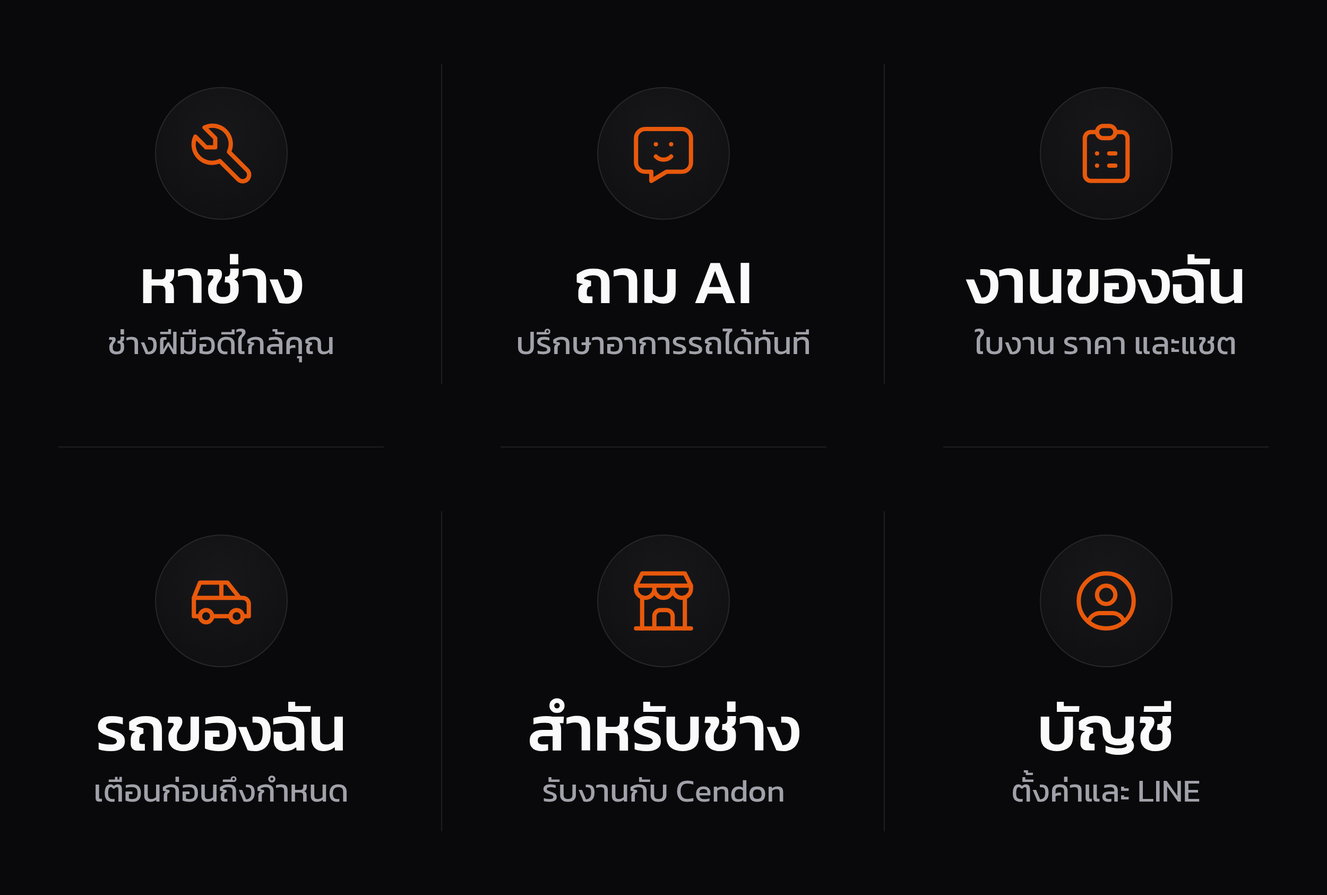
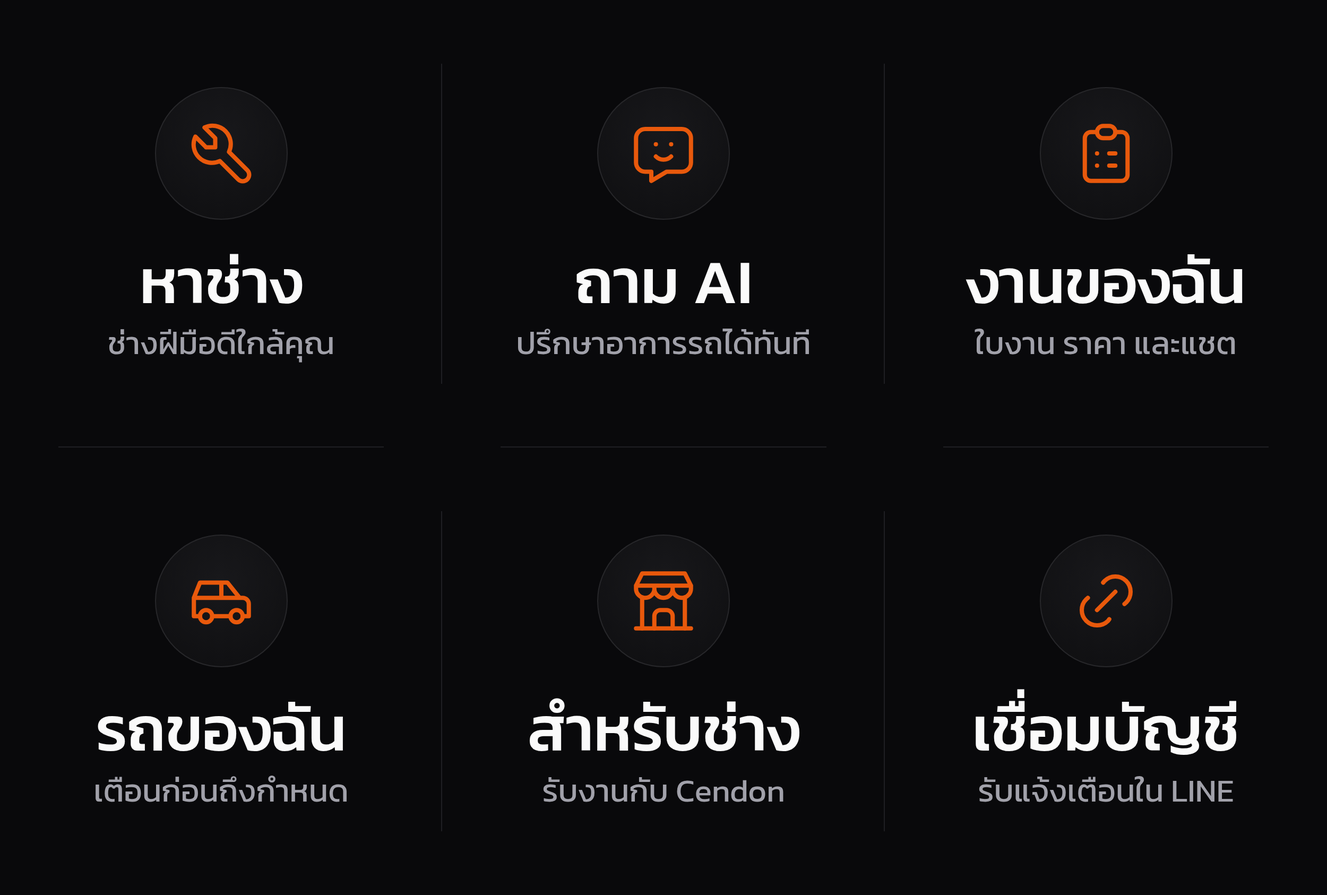
เชื่อม LINE แบบเริ่มจากแชต LINE: กดเมนู "เชื่อมบัญชี" → บอทส่งลิงก์ → ล็อกอินแล้วกดเชื่อมต่อ → แจ้งสำเร็จใน LINE
- บอทรับ "เชื่อมต่อบัญชี" (จากเมนูหรือพิมพ์เอง) → สร้าง token สุ่ม 256 บิต ผูกกับ LINE user id
  เก็บแค่แฮช ใช้ได้ครั้งเดียว 15 นาที ขอใหม่ = ลิงก์เก่าใช้ไม่ได้
- ตอบเป็นการ์ดพร้อมปุ่มเปิดหน้า /line?t=… ในเบราว์เซอร์ของเครื่อง · LINE ที่เชื่อมอยู่แล้วได้ปุ่ม "เปลี่ยนบัญชี"
- GET/POST /api/line/connect (ต้องล็อกอิน): ดูชื่อ/รูป LINE ที่จะเชื่อม · กดเชื่อมต่อ = ใช้ token แบบอะตอม
  ผูกบัญชี แล้ว push "เชื่อมบัญชีสำเร็จ" · ยังไม่เป็นเพื่อน = พักไว้จนเพิ่มเพื่อน
- หน้าเชื่อมต่อในแอป: โชว์ LINE ↔ บัญชี Cendon ก่อนกด (กันโดนหลอกให้เชื่อมกับ LINE คนอื่น) · หมดอายุ/ใช้แล้วบอกวิธีขอใหม่
- ปุ่ม "เชื่อม LINE" ในแอปเปิดแชต LINE พร้อมพิมพ์ "เชื่อมต่อบัญชี" ให้ แล้วรอผล · รหัส 6 ตัวแบบเดิมยังใช้ได้
- เมนู LINE ช่องขวาล่าง "บัญชี" → "เชื่อมบัญชี" (ส่งข้อความ) + รูปเมนูใหม่ · schema 22

Claude-Session: https://claude.ai/code/session_01RQqt5tW7HXgtELbX8NsBFF

Changed region(s): [[0.7176, 0.7711, 0.936, 0.8944], [0.8112, 0.6168, 0.8736, 0.7094]]

diff --git a/index.html b/index.html
@@ -5,7 +5,7 @@
 <link rel="stylesheet" href="/account.css">
 <script src="/cendon-tour.js" defer></script>
 <script src="/account-actions.js" defer></script>
-<script src="/account.js?v=2026-10-14-r5" defer></script>
+<script src="/account.js?v=2026-10-15-r6" defer></script>
 <meta charset="UTF-8"/>
 <!-- ที่อยู่แบบลึก (/tech/<ร้าน>/reviews) — ไฟล์ประกอบทุกตัวอ้างจากรากเว็บเสมอ -->
 <base href="/">
@@ -1754,6 +1754,17 @@ html[data-theme="dark"] .so-vi{box-shadow:inset 0 0 0 1px rgba(255,255,255,.14)}
 .fixl b{display:flex;gap:6px;align-items:center;font-size:14.5px}.fixl b .ti{color:#b91c1c}
 .fixl ul{margin:8px 0 0;padding-left:20px;display:grid;gap:6px;font-size:14px;line-height:1.6}
 .idp{margin:0 0 12px;padding:14px 16px;border-radius:16px;border:1px solid var(--line);background:var(--surface)}
+.lc-pair{display:flex;align-items:center;justify-content:center;gap:14px;margin:8px 0 18px}
+.lc-side{flex:1 1 0;min-width:0;display:grid;justify-items:center;gap:3px;text-align:center}
+.lc-side small{font-size:12px;color:var(--muted)}.lc-side b{font-size:15px;max-width:100%;overflow:hidden;text-overflow:ellipsis;white-space:nowrap}
+.lc-side em{font-style:normal;font-size:12px;color:var(--muted);max-width:100%;overflow:hidden;text-overflow:ellipsis;white-space:nowrap}
+.lc-av{width:68px;height:68px;border-radius:50%;object-fit:cover;display:grid;place-items:center;font-size:26px;font-weight:600;margin-bottom:6px;border:1px solid var(--line)}
+.lc-ln{border:0;border-radius:18px;object-fit:contain}.lc-cd{background:var(--ink);color:var(--bg)}
+.lc-link{flex:none;width:36px;height:36px;border-radius:50%;display:grid;place-items:center;background:var(--surface-2);color:var(--muted);font-size:18px}
+.lc-h{font-family:var(--kd);font-size:20px;font-weight:600;text-align:center;margin:0 0 12px}
+.lc-ul{list-style:none;margin:0 0 14px;padding:0;display:grid;gap:10px}
+.lc-ul li{display:flex;gap:10px;align-items:flex-start;font-size:14.5px;line-height:1.55}.lc-ul .ti{color:var(--accent);font-size:18px;flex:none;margin-top:1px}
+.lc-warn{color:var(--muted)}.lc-tip{text-align:center;color:var(--muted);font-size:14px;line-height:1.6;margin:4px 0 14px}
 .kyc{margin:0 0 16px;padding:14px 16px;border-radius:16px;border:1px solid var(--line);background:var(--surface);display:grid;gap:8px}
 .kyc b{display:flex;gap:8px;align-items:center;font-size:15px}.kyc small{color:var(--muted);font-size:13.5px;line-height:1.6}
 .kyc.next{border-color:color-mix(in srgb,var(--accent) 45%,var(--line))}.kyc.next b .ti{color:var(--accent)}
@@ -3184,6 +3195,46 @@ const LP_AREA=[["engine","ti-engine","ห้องเครื่อง","Engine
   ["exhaust","ti-wind","ท่อไอเสีย","Exhaust"],["cabin","ti-armchair","ในห้องโดยสาร / หน้าปัด","Cabin / dashboard"],["ac","ti-air-conditioning","แอร์ / พัดลม","AC / fan"],["unsure","ti-help","ไม่แน่ใจ","Not sure"]];
 const LP_WHEN=[["cold","ตอนสตาร์ท / เครื่องเย็น","Cold start"],["idle","เดินเบา (จอดติดเครื่อง)","Idling"],["rev","ตอนเร่งเครื่อง","Revving"],["speed","ตอนวิ่ง ดังขึ้นตามความเร็ว","Rises with road speed"],
   ["brake","ตอนเบรก","Braking"],["turn","ตอนเลี้ยว / หมุนพวงมาลัย","Turning"],["bump","ตอนผ่านหลุม / ลูกระนาด","Over bumps"],["acon","ตอนเปิดแอร์","With AC on"],["always","ตลอดเวลา","All the time"]];
+/* ═══ เชื่อม LINE (เริ่มจากในแชต LINE) ═══
+   บอทส่งลิงก์ /line?t=<token> → หน้านี้โชว์ว่ากำลังเชื่อม "LINE ชื่ออะไร" กับ "บัญชี Cendon ไหน" → กดเชื่อมต่อ
+   → หลังบ้านเทียบ token กับ LINE user id ที่บอทจดไว้ แล้วผูกบัญชี + ส่งข้อความยืนยันเข้า LINE
+   โชว์ชื่อ/รูป LINE ก่อนกด กันคนส่งลิงก์ของตัวเองมาหลอกให้เราเชื่อมบัญชีเรากับ LINE ของเขา */
+const lineAdd=oa=>"https://line.me/R/ti/p/"+encodeURIComponent(oa),lineChat=oa=>"https://line.me/R/oaMessage/"+encodeURIComponent(oa)+"/";
+const LNI='<img src="./img/line-logo.svg" width="20" height="20" alt="" style="vertical-align:-4px;margin-right:6px">';
+function lineConnect(t){
+  const url="/line?t="+encodeURIComponent(t);
+  sheet({title:"เชื่อม LINE",url,body:'<div class="skel"></div><div class="skel"></div>'});
+  const again=oa=>`<p class="lc-tip">กลับไปที่แชต LINE ของ Cendon แล้วกดเมนู <b>เชื่อมบัญชี</b> (หรือพิมพ์ "เชื่อมต่อบัญชี") เพื่อรับลิงก์ใหม่</p>
+    ${oa?`<a class="btn s w" href="${esc(lineChat(oa))}" target="_blank" rel="noopener">${LNI}เปิด LINE ของ Cendon</a>`:""}`;
+  const fail=(icon,h,p,oa)=>sheet({title:"เชื่อม LINE",url,body:`<div class="state"><div class="big" style="background:var(--surface-2);color:var(--muted)"><i class="ti ${icon}"></i></div><h2>${h}</h2><p>${p}</p></div>${again(oa)}`,
+    foot:'<button class="btn s w" id="lcHome">ไปหน้าแรก</button>',mount(){$("lcHome").onclick=()=>closeSheet()}});
+  const done=r=>sheet({title:"เชื่อม LINE",url:"/line",body:r.paused
+      ?`<div class="state"><div class="big" style="background:rgba(6,199,85,.12);color:#06C755"><i class="ti ti-user-plus"></i></div><h2>อีกขั้นเดียว</h2><p>เชื่อมบัญชีแล้ว แต่ LINE ส่งแจ้งเตือนได้เฉพาะคนที่เพิ่ม Cendon เป็นเพื่อน — เพิ่มแล้วการแจ้งเตือนจะเปิดเองทันที</p></div>
+        ${r.oa?`<a class="btn p w" href="${esc(lineAdd(r.oa))}" target="_blank" rel="noopener">${LNI}เพิ่มเพื่อน ${esc(r.oa)}</a>`:""}`
+      :`<div class="state"><div class="big" style="background:rgba(6,199,85,.12);color:#06C755"><i class="ti ti-circle-check"></i></div><h2>เชื่อม LINE สำเร็จ</h2><p>เราส่งข้อความยืนยันไปที่ LINE${r.name?" "+esc(r.name):""} แล้ว · จากนี้งานช่าง ราคา ข้อความ และเตือนดูแลรถจะแจ้งใน LINE</p></div>
+        ${r.oa?`<a class="btn p w" href="${esc(lineChat(r.oa))}" target="_blank" rel="noopener">${LNI}กลับไปที่ LINE</a>`:""}`,
+    foot:'<button class="btn s w" id="lcHome">ไปหน้าแรก</button>',mount(){$("lcHome").onclick=()=>closeSheet()}});
+  if(!/^[A-Za-z0-9_-]{30,64}$/.test(t))return fail("ti-link-off","ลิงก์ไม่ครบ","ลิงก์เชื่อมบัญชีต้องเปิดจากปุ่มที่บอท Cendon ส่งให้ใน LINE");
+  api("/api/line/connect?t="+encodeURIComponent(t)).then(d=>{
+    if(d.state==="expired")return fail("ti-clock-x","ลิงก์หมดอายุแล้ว","ลิงก์เชื่อมบัญชีใช้ได้ 15 นาที",d.oa);
+    if(d.state==="used")return fail("ti-link-off","ลิงก์นี้ถูกใช้ไปแล้ว","ลิงก์เชื่อมบัญชีใช้ได้ครั้งเดียว",d.oa);
+    if(d.state!=="ok")return fail("ti-link-off","ไม่พบลิงก์นี้","อาจมีการขอลิงก์ใหม่ในแชตแล้ว — ใช้ลิงก์ล่าสุดที่บอทส่งให้",d.oa);
+    const me=(ME&&ME.name)||(U&&(U.displayName||U.email))||"บัญชีของคุณ";
+    sheet({title:"เชื่อม LINE",url,body:`
+      <div class="lc-pair">
+        <div class="lc-side">${d.picture?`<img class="lc-av" src="${esc(d.picture)}" alt="" referrerpolicy="no-referrer"/>`:`<img class="lc-av lc-ln" src="./img/line-logo.svg" alt=""/>`}<small>LINE</small><b>${esc(d.name||"บัญชี LINE ของคุณ")}</b></div>
+        <span class="lc-link" aria-hidden="true"><i class="ti ti-arrows-exchange"></i></span>
+        <div class="lc-side"><span class="lc-av lc-cd">${initial(me)}</span><small>Cendon</small><b>${esc(me)}</b>${U&&U.email&&U.email!==me?`<em>${esc(U.email)}</em>`:""}</div>
+      </div>
+      <h2 class="lc-h">เชื่อมสองบัญชีนี้เข้าด้วยกัน?</h2>
+      <ul class="lc-ul"><li><i class="ti ti-bell-ringing"></i>งานช่าง ราคา และข้อความในใบงาน แจ้งเข้า LINE ทันที</li><li><i class="ti ti-car"></i>เตือนดูแลรถตามระยะที่ขับจริง</li><li><i class="ti ti-message-chatbot"></i>คุยกับ AI ใน LINE ได้ โดยรู้จักรถในการาจของคุณ</li></ul>
+      ${d.same?'<p class="note"><i class="ti ti-circle-check"></i>บัญชีนี้เชื่อมกับ LINE นี้อยู่แล้ว กดเชื่อมต่อซ้ำได้ ไม่มีอะไรเปลี่ยน</p>':d.linked?'<p class="note"><i class="ti ti-info-circle"></i>บัญชีนี้รับแจ้งเตือนที่ LINE อื่นอยู่ — เชื่อมแล้วจะย้ายมาที่ LINE นี้แทน</p>':""}
+      <p class="note lc-warn"><i class="ti ti-shield-lock"></i>ถ้า LINE ด้านบนไม่ใช่ของคุณ อย่ากดเชื่อมต่อ — ปิดหน้านี้ได้เลย</p>`,
+      foot:'<button class="btn s" id="lcNo">ยกเลิก</button><button class="btn p" id="lcGo">เชื่อมต่อ</button>',
+      mount(){$("lcNo").onclick=()=>closeSheet();
+        $("lcGo").onclick=e=>busy(e.currentTarget,async()=>{const r=await api("/api/line/connect",{body:{t}});done(r)})}});
+  }).catch(e=>fail("ti-cloud-off","เปิดลิงก์ไม่สำเร็จ",esc(e.message)));
+}
 function listenPage(){
   let [cars,car]=myCars(),area="",when=[],clip=null,rec=null,busyClip=false;
   const fmt=s=>{s=Math.round(s);return Math.floor(s/60)+":"+String(s%60).padStart(2,"0")};
@@ -3750,6 +3801,8 @@ Nav.route({path:"join",open:async()=>{if(await needU())return openJoin()}});
 Nav.route({path:"quote",name:"qcheck",open:()=>quotePage()});
 Nav.route({path:"listen",name:"listen",open:()=>listenPage()});
 Nav.route({path:"photo",name:"photo",open:()=>photoPage()});
+/* หน้าเชื่อมต่อ LINE — มาจากลิงก์ที่บอท Cendon ส่งให้ (/line?t=…) · ยังไม่ล็อกอิน → ไปล็อกอินแล้วกลับมาที่นี่ */
+Nav.route({path:"line",name:"lineConnect",open:async(p,q)=>{if(await needU())lineConnect(q.get("t")||"")}});
 Nav.route({path:"quotes",open:async()=>{await READY.techs;if(await needU())openMulti("","")}});
 Nav.route({path:"compare/:g",open:async p=>{if(await needU())return openGroup(p.g)}});
 Nav.route({path:"urgent",open:async()=>{await READY.techs;if(await needU())return urgentCall()}});

diff --git a/cendon-line.js b/cendon-line.js
@@ -5,10 +5,10 @@
                    <div data-line-connect="nudge"></div>  → แถบเล็ก โผล่เฉพาะคนที่ยังไม่เชื่อม (ในใบงาน)
    ตัวนี้หาเองทุกครั้งที่มีกล่องแบบนี้โผล่ในหน้า ไม่ต้องเรียกอะไร
 
-   ขั้นตอน: ขอรหัส 6 ตัว → เปิดห้องแชต LINE ของ Cendon พร้อมพิมพ์รหัสไว้ให้ → ผู้ใช้กดส่ง
-   → บอทผูกบัญชี → หน้านี้ถามสถานะทุก 3 วินาทีจนเห็นว่าเชื่อมแล้ว
-   ข้อความที่เตรียมให้ส่งมีแค่ภาษาไทยกับรหัส — บอทหารหัสจาก "คำอังกฤษ 6 ตัว"
-   ถ้ามีคำอย่าง CENDON ปนมา บอทจะหยิบผิดตัว
+   ขั้นตอน (เริ่มจากในแชต LINE): ปุ่มเปิดห้องแชต LINE ของ Cendon พร้อมพิมพ์ "เชื่อมต่อบัญชี" ไว้ให้ → ผู้ใช้กดส่ง
+   → บอทส่งลิงก์หน้าเชื่อมต่อ (/line?t=…) → ผู้ใช้เปิด ล็อกอิน แล้วกด "เชื่อมต่อ" (หน้านั้นอยู่ใน index.html)
+   → หลังบ้านผูกบัญชีแล้ว push แจ้งใน LINE · หน้านี้ถามสถานะทุก 3 วินาทีจนเห็นว่าเชื่อมแล้ว
+   (ใน LINE จะกดเมนู "เชื่อมบัญชี" เองก็ได้ ผลเหมือนกัน)
    ══════════════════════════════════════════════════════════════════ */
 (function(){
 "use strict";
@@ -30,7 +30,9 @@ async function call(method,path){
 }
 
 /* สถานะร่วมของทั้งหน้า: ถามเซิร์ฟเวอร์ครั้งเดียว ทุกกล่องใช้ร่วมกัน */
-let st=null,stAt=0,code=null,poll=0;
+/* pending = เวลาที่เลิกรอ หลังผู้ใช้กดเปิด LINE (รอทำต่อใน LINE ไม่เกิน 20 นาที) */
+let st=null,stAt=0,pending=0,poll=0;
+const CONNECT="เชื่อมต่อบัญชี";
 const boxes=new Set();
 async function status(force){
   if(!force&&st&&Date.now()-stAt<60000)return st;
@@ -72,7 +74,7 @@ function draw(el){
   /* เชื่อมแล้วแต่ยังไม่ได้เพิ่มเพื่อน (หรือบล็อก) Cendon ใน LINE — LINE ส่งแจ้งเตือนให้ไม่ได้จนกว่าจะเพิ่มเพื่อน
      เพิ่มแล้วหลังบ้านเปิดให้เอง หน้านี้ถามสถานะใหม่ตอนผู้ใช้สลับกลับมา */
   if(st.paused){
-    const oa=st.oa||(code&&code.oa)||"";
+    const oa=st.oa||"";
     el.innerHTML=nudge
       ?`<div class="cl nudge">${ICON}<div class="cl-tx"><b>${T("เพิ่มเพื่อน Cendon เพื่อรับแจ้งเตือน","Add Cendon on LINE to get updates")}</b></div>
         ${oa?`<a class="cl-btn sm" href="${esc(addUrl(oa))}" target="_blank" rel="noopener">${T("เพิ่มเพื่อน","Add")}</a>`:""}</div>`
@@ -83,50 +85,44 @@ function draw(el){
         <button type="button" class="cl-lnk" data-cl="off" style="align-self:flex-start;margin:2px 0 0;padding:0">${T("ยกเลิกการเชื่อม","Disconnect")}</button></div></div>`;
     return;
   }
-  if(code){
-    const oa=code.oa||st.oa||"",msg="รหัสเชื่อมบัญชี "+code.code;
+  const oa=st.oa,go=(cls,label)=>`<a class="${cls}" data-cl="go" href="${esc(oaUrl(oa,CONNECT))}" target="_blank" rel="noopener">${label}</a>`;
+  if(pending>Date.now()&&!nudge){
     el.innerHTML=`<div class="cl wait">${ICON}<div class="cl-tx">
-      <b>${T("ส่งรหัสนี้ใน LINE ของ Cendon","Send this code to Cendon on LINE")}</b>
-      <div class="cl-code">${esc(code.code)}</div>
-      ${oa?`<a class="cl-btn" href="${esc(oaUrl(oa,msg))}" target="_blank" rel="noopener">${T("เปิด LINE แล้วกดส่ง","Open LINE and tap send")}</a>
-      <small>${T("ยังไม่ได้เพิ่มเพื่อน?","Not friends yet?")} <a href="${esc(addUrl(oa))}" target="_blank" rel="noopener">${T("เพิ่มเพื่อน","Add")} ${esc(oa)}</a> ${T("ก่อน แล้วพิมพ์รหัสนี้","first, then type this code")}</small>`
-        :`<small>${T("เพิ่มเพื่อน LINE ของ Cendon แล้วพิมพ์รหัสนี้","Add Cendon on LINE and type this code")}</small>`}
-      <small class="cl-wt"><span class="cl-dot"></span>${T("รอการยืนยัน · รหัสใช้ได้ 20 นาที","Waiting for LINE · code valid for 20 minutes")}</small></div></div>`;
+      <b>${T("ทำต่อใน LINE","Continue in LINE")}</b>
+      <ol class="cl-steps"><li>${T(`กดส่งข้อความ "${CONNECT}"`,`Send "${CONNECT}"`)}</li><li>${T('กดปุ่ม "เชื่อมต่อบัญชี" ที่บอทตอบกลับ','Tap the "เชื่อมต่อบัญชี" button the bot replies with')}</li><li>${T('ล็อกอิน (ถ้าถาม) แล้วกด "เชื่อมต่อ"','Sign in if asked, then tap "เชื่อมต่อ"')}</li></ol>
+      ${go("cl-btn",T("เปิด LINE อีกครั้ง","Open LINE again"))}
+      <small>${T("ยังไม่ได้เพิ่มเพื่อน?","Not friends yet?")} <a href="${esc(addUrl(oa))}" target="_blank" rel="noopener">${T("เพิ่มเพื่อน","Add")} ${esc(oa)}</a></small>
+      <small class="cl-wt"><span class="cl-dot"></span>${T("รอการเชื่อมต่อ…","Waiting for LINE…")}</small></div></div>`;
     return;
   }
   el.innerHTML=nudge
     ?`<div class="cl nudge">${ICON}<div class="cl-tx"><b>${T("รับแจ้งเตือนงานนี้ทาง LINE","Get updates on LINE")}</b></div>
-      <button type="button" class="cl-btn sm" data-cl="go">${T("เชื่อม","Connect")}</button></div>`
+      ${go("cl-btn sm",T("เชื่อม","Connect"))}</div>`
     :`<div class="cl">${ICON}<div class="cl-tx"><b>${T("รับแจ้งเตือนทาง LINE","Get notified on LINE")}</b>
       <small>${T("งานใหม่ ราคา ข้อความ และเตือนดูแลรถ ส่งเข้า LINE ทันที ไม่ต้องเปิดแอปค้างไว้","New jobs, quotes, messages and car reminders, straight to LINE")}</small>
-      <button type="button" class="cl-btn" data-cl="go">${T("เชื่อม LINE","Connect LINE")}</button></div></div>`;
+      ${go("cl-btn",T("เชื่อม LINE","Connect LINE"))}</div></div>`;
 }
 
-async function start(el){
-  const b=el.querySelector('[data-cl="go"]');if(b){b.disabled=true;b.textContent="…"}
-  try{code=await call("POST","/api/line/code");if(code.oa!==undefined&&st)st.oa=st.oa||code.oa}
-  catch(e){alert(e.message);paintAll();return}
-  paintAll();watch();
-}
-/* ระหว่างรอผู้ใช้กดส่งใน LINE ถามสถานะเป็นระยะ (หยุดเองเมื่อเชื่อมแล้ว หรือรหัสหมดอายุ) */
+/* กดเชื่อม = ลิงก์เปิดห้องแชต LINE (ปล่อยให้เปิดเอง) แล้วการ์ดเปลี่ยนเป็น "ทำต่อใน LINE" และรอผล */
+function start(){pending=Date.now()+20*60000;setTimeout(()=>{paintAll();watch()},60)}
+/* ระหว่างรอผู้ใช้ทำต่อใน LINE ถามสถานะเป็นระยะ (หยุดเองเมื่อเชื่อมแล้ว หรือเกิน 20 นาที) */
 function watch(){
   clearTimeout(poll);
   const tick=async()=>{
-    if(!code)return;
-    if(Date.now()>(code.expiresAt||0)){code=null;paintAll();return}
-    /* ส่งรหัสแล้วแต่ยังไม่เป็นเพื่อน → เปลี่ยนการ์ดเป็นขั้น "เพิ่มเพื่อน" แล้วรอต่อจนเชื่อมครบ */
-    try{const was=st&&st.paused;await status(true);if(st.linked){code=null;paintAll();return}if(st.paused!==was)paintAll()}catch(e){}
+    if(!pending)return;
+    if(Date.now()>pending){pending=0;paintAll();return}
+    try{const was=st&&st.paused;await status(true);if(st.linked){pending=0;paintAll();return}if(st.paused!==was)paintAll()}catch(e){}
     poll=setTimeout(tick,document.hidden?6000:3000);
   };
   poll=setTimeout(tick,3000);
 }
-/* กลับมาจาก LINE: ถามสถานะใหม่ทันที (เพิ่งกดส่งรหัส หรือเพิ่งเพิ่มเพื่อน) */
-document.addEventListener("visibilitychange",()=>{if(document.hidden)return;if(code)watch();else if(st&&st.paused)status(true).then(paintAll).catch(()=>{})});
+/* กลับมาจาก LINE: ถามสถานะใหม่ทันที */
+document.addEventListener("visibilitychange",()=>{if(document.hidden)return;if(pending)watch();else if(st&&st.paused)status(true).then(paintAll).catch(()=>{})});
 document.addEventListener("click",async e=>{
   const b=e.target.closest&&e.target.closest("[data-cl]");if(!b)return;
   const el=b.closest("[data-line-connect]");if(!el)return;
+  if(b.dataset.cl==="go")return start();
   e.preventDefault();
-  if(b.dataset.cl==="go")return start(el);
   if(b.dataset.cl==="off"){
     if(!confirm(T("เลิกรับแจ้งเตือนทาง LINE?","Stop LINE notifications?")))return;
     try{await call("DELETE","/api/line/link");await status(true)}catch(err){alert(err.message)}
@@ -199,6 +195,8 @@ const css=document.createElement("style");css.textContent=`
 .cl-btn.sm{height:34px;padding:0 16px;margin:0;font-size:13px;flex:none}
 .cl-btn:disabled{opacity:.7}
 .cl-lnk{flex:none;border:0;background:none;color:#fff;opacity:.72;font-weight:500;font-size:12px;font-family:inherit;text-decoration:underline;text-underline-offset:2px;cursor:pointer;align-self:center}
+.cl-steps{margin:2px 0 4px;padding-left:20px;display:grid;gap:4px;font-size:13.5px;line-height:1.5;color:rgba(255,255,255,.95)}
+.cl-steps li::marker{font-weight:700}
 .cl-code{align-self:flex-start;font:700 26px/1.2 ui-monospace,SFMono-Regular,Menlo,monospace;letter-spacing:.18em;margin:4px 0 2px;
   padding:6px 8px 6px 14px;border-radius:12px;background:rgba(255,255,255,.16);border:1px solid rgba(255,255,255,.3);
   text-shadow:0 2px 10px rgba(0,60,25,.35)}

diff --git a/sw.js b/sw.js
@@ -4,7 +4,7 @@
    หน้าเว็บเป็นไฟล์เดียวที่เปลี่ยนบ่อย จึงถามเน็ตก่อนเสมอ (ไม่งั้นผู้ใช้จะติดอยู่กับเวอร์ชันเก่า)
    แต่รอแค่ครู่เดียว — เน็ตมือถือช้า/ค้าง ต้องไม่ทำให้แอปค้างหน้าจอโหลด
    ══════════════════════════════════════════════════════════════════ */
-const CACHE = 'cendon-v261-line-connect';
+const CACHE = 'cendon-v262-line-from-bot';
 /* หน้าเว็บที่โหลดสำเร็จล่าสุด แยกตู้ไว้และ "ไม่ลบตอนอัปเดตเวอร์ชัน"
    เดิมทุกครั้งที่ deploy ตู้เก่าถูกล้างหมด เปิดแอปครั้งแรกหลังอัปเดตจึงไม่มีของสำรอง
    ต้องรอเน็ตอย่างเดียว — เน็ตมือถือช้าเมื่อไรก็ค้างหน้าจอโหลดของมือถือ */
@@ -14,13 +14,13 @@ const WAIT = 1500;
 /* โหลดล่วงหน้าเฉพาะไฟล์เล็กที่หน้าแรกใช้จริง
    เดิมโหลดทุกหน้า (~7 MB) แย่งเน็ตตอนผู้ใช้กำลังเปิดแอป และในรายการมีไฟล์ที่ไม่มีอยู่จริง
    (cendon-one.css, about, help, privacy) ทำให้ addAll ล้มทั้งชุด = ไม่เคยเก็บอะไรได้เลย */
-const CORE = ['./account-paint.js?v=2026-10-11-r1', './account.css', './account.js?v=2026-10-14-r5', './account-actions.js', './auth-bootstrap.js', './cendon-tour.js', './nav.js', './media-store.js', './car-sync.js', './carspec.js?v=2026-10-12-r3', './car-detail-tabs.css?v=2026-10-12-r1', './car-detail-tabs.js?v=2026-10-12-r2', './call-ui.css', './lux.css', './category-pages.js', './home-layout.css', './stability.css', './stability.js', './mobile-ui.js', './fluid.js', './crop.js', './cendon-admin.js', './call-sounds.js?v=1', './cendon-search.js', './cendon-line.js', './manifest.webmanifest', './icon192.png'];
+const CORE = ['./account-paint.js?v=2026-10-11-r1', './account.css', './account.js?v=2026-10-15-r6', './account-actions.js', './auth-bootstrap.js', './cendon-tour.js', './nav.js', './media-store.js', './car-sync.js', './carspec.js?v=2026-10-12-r3', './car-detail-tabs.css?v=2026-10-12-r1', './car-detail-tabs.js?v=2026-10-12-r2', './call-ui.css', './lux.css', './category-pages.js', './home-layout.css', './stability.css', './stability.js', './mobile-ui.js', './fluid.js', './crop.js', './cendon-admin.js', './call-sounds.js?v=1', './cendon-search.js', './cendon-line.js', './manifest.webmanifest', './icon192.png'];
 const BUILD_HEADER = 'X-Cendon-Shell';
 const SHELL_ROUTES = new Set(['/', '/index', '/garage', '/news', '/spares', '/profile', '/chat', '/plan', '/handbook', '/tech', '/techs', '/terms', '/login']);
 /* ที่อยู่แบบลึก (แบบ YouTube) ใช้ไฟล์หน้าเดียวกับหน้าแม่ — ตรงกับ _redirects
    /garage/<รถ>/spec → หน้า /garage · /tech/<ร้าน> /jobs/<งาน> ฯลฯ → หน้าแรก / */
 const DEEP_PAGES = new Set(['garage', 'news', 'spares', 'profile', 'chat']);
-const DEEP_HOME = new Set(['tech', 'service', 'category', 'search', 'map', 'jobs', 'messages', 'quote', 'listen', 'photo', 'studio', 'work', 'staff', 'join', 'trip', 'quotes', 'compare', 'urgent', 'diagnose', 'post']);
+const DEEP_HOME = new Set(['tech', 'service', 'category', 'search', 'map', 'jobs', 'messages', 'quote', 'listen', 'photo', 'line', 'studio', 'work', 'staff', 'join', 'trip', 'quotes', 'compare', 'urgent', 'diagnose', 'post']);
 function shellOf(pathname) {
   const p = pathname.replace(/\.html$/, '').replace(/\/index$/, '/');
   if (SHELL_ROUTES.has(p)) return p;

diff --git a/stability.js b/stability.js
@@ -4,7 +4,7 @@
   var D=document,seen=new Set(),pending=0;
   var paths=new Set(['/','/index','/garage','/news','/spares','/profile','/chat','/dashboard','/plan','/handbook']);
   /* ที่อยู่แบบลึก (/garage/<รถ>/spec, /tech/<ร้าน>) นับเป็นหน้าแม่ของมัน */
-  var deep=new Set(['tech','service','category','search','map','jobs','messages','quote','listen','photo','studio','work','staff','join','trip','quotes','compare','urgent','diagnose','post']);
+  var deep=new Set(['tech','service','category','search','map','jobs','messages','quote','listen','photo','line','studio','work','staff','join','trip','quotes','compare','urgent','diagnose','post']);
   function path(p){p=p.replace(/\.html$/,'').replace(/\/index$/,'/');var s=p.split('/')[1]||'';
     return paths.has(p)?p:paths.has('/'+s)?'/'+s:deep.has(s)?'/':p}
   /* ลิงก์ที่หน้านี้เปิดเองได้ (nav.js) ไม่ต้องโหลดหน้าใหม่ */

diff --git a/account.js b/account.js
@@ -26,7 +26,7 @@
   function safeNext(raw){
     try{if(/[\\\p{Cc}]/u.test(decodeURIComponent(raw||'')))return '/';
       const u=new URL(raw||'/',location.origin),p=u.pathname.replace(/\.html$/,'').replace(/\/$/,'')||'/';
-      const simple=['/','/index','/garage','/chat','/news','/spares','/profile','/tech','/techs','/admin','/handbook','/plan','/terms','/search','/map','/urgent','/diagnose','/jobs','/studio','/work','/staff','/join','/quotes','/post'];
+      const simple=['/','/index','/garage','/chat','/news','/spares','/profile','/tech','/techs','/admin','/handbook','/plan','/terms','/search','/map','/urgent','/diagnose','/jobs','/studio','/work','/staff','/join','/quotes','/post','/line'];
       const deep=/^\/(garage|chat|news|spares|profile|tech|service|category|jobs|studio|work|staff|join|trip|quotes|compare|post)\/[^\s]+$/.test(p);
       return u.origin===location.origin&&(simple.includes(p)||deep)&&u.href.length<4096?(p==='/index'?'/':p)+u.search+u.hash:'/';
     }catch(e){return '/'}

diff --git a/login.html b/login.html
@@ -24,7 +24,7 @@
 <style>html,body{margin:0;min-height:100%;background:#f7f2e9;color:#302a25;font-family:Kanit,system-ui,sans-serif}html{--kb:Kanit,system-ui,sans-serif}body{min-height:100dvh}.ac-noscript{position:fixed;inset:auto 24px 24px;z-index:3101;margin:0;padding:16px;background:#fbf7ee;color:#924536;font-size:14px}</style>
 <script src="/cendon-tour.js" defer></script>
 <script src="/account-actions.js" defer></script>
-<script src="/account.js?v=2026-10-14-r5" defer></script>
+<script src="/account.js?v=2026-10-15-r6" defer></script>
 <script src="https://www.gstatic.com/firebasejs/10.12.2/firebase-app-compat.js" defer></script>
 <script src="https://www.gstatic.com/firebasejs/10.12.2/firebase-auth-compat.js" defer></script>
 <script src="/auth-bootstrap.js" defer></script>

diff --git a/plan.html b/plan.html
@@ -4,7 +4,7 @@
 <link rel="stylesheet" href="/account.css">
 <script src="/cendon-tour.js" defer></script>
 <script src="/account-actions.js" defer></script>
-<script src="/account.js?v=2026-10-14-r5" defer></script>
+<script src="/account.js?v=2026-10-15-r6" defer></script>
 <!-- ซ่อนแพ็กเกจไว้ก่อนใน 1.0 (ยังไม่มีระบบรับเงินผ่าน Google Play Billing) — ใครเข้าลิงก์ตรงให้กลับหน้าก่อนหน้า -->
 <script>try{var f=new URLSearchParams(location.search).get("from");location.replace(f&&/^\/?[a-z]+(\.html)?$/.test(f)?"/"+f.replace(/^\//,"").replace(/\.html$/,""):"/")}catch(e){location.replace("/")}</script>
 <meta charset="utf-8">

diff --git a/profile.html b/profile.html
@@ -5,7 +5,7 @@
 <link rel="stylesheet" href="/account.css">
 <script src="/cendon-tour.js" defer></script>
 <script src="/account-actions.js" defer></script>
-<script src="/account.js?v=2026-10-14-r5" defer></script>
+<script src="/account.js?v=2026-10-15-r6" defer></script>
 <meta charset="UTF-8"/>
 <!-- ที่อยู่แบบลึก (/profile/…) — ไฟล์ประกอบทุกตัวอ้างจากรากเว็บเสมอ -->
 <base href="/">

diff --git a/garage.html b/garage.html
@@ -5,7 +5,7 @@
 <link rel="stylesheet" href="/account.css">
 <script src="/cendon-tour.js" defer></script>
 <script src="/account-actions.js" defer></script>
-<script src="/account.js?v=2026-10-14-r5" defer></script>
+<script src="/account.js?v=2026-10-15-r6" defer></script>
 <meta charset="UTF-8"/>
 <!-- ที่อยู่แบบลึก (/garage/…) — ไฟล์ประกอบทุกตัวอ้างจากรากเว็บเสมอ -->
 <base href="/">

diff --git a/spares.html b/spares.html
@@ -5,7 +5,7 @@
 <link rel="stylesheet" href="/account.css">
 <script src="/cendon-tour.js" defer></script>
 <script src="/account-actions.js" defer></script>
-<script src="/account.js?v=2026-10-14-r5" defer></script>
+<script src="/account.js?v=2026-10-15-r6" defer></script>
 <meta charset="UTF-8"/>
 <!-- ที่อยู่แบบลึก (/spares/…) — ไฟล์ประกอบทุกตัวอ้างจากรากเว็บเสมอ -->
 <base href="/">

diff --git a/chat.html b/chat.html
@@ -5,7 +5,7 @@
 <link rel="stylesheet" href="/account.css">
 <script src="/cendon-tour.js" defer></script>
 <script src="/account-actions.js" defer></script>
-<script src="/account.js?v=2026-10-14-r5" defer></script>
+<script src="/account.js?v=2026-10-15-r6" defer></script>
 <meta charset="UTF-8"/>
 <!-- ที่อยู่แบบลึก (/chat/…) — ไฟล์ประกอบทุกตัวอ้างจากรากเว็บเสมอ -->
 <base href="/">

diff --git a/news.html b/news.html
@@ -5,7 +5,7 @@
 <link rel="stylesheet" href="/account.css">
 <script src="/cendon-tour.js" defer></script>
 <script src="/account-actions.js" defer></script>
-<script src="/account.js?v=2026-10-14-r5" defer></script>
+<script src="/account.js?v=2026-10-15-r6" defer></script>
 <meta charset="UTF-8"/>
 <!-- ที่อยู่แบบลึก (/news/…) — ไฟล์ประกอบทุกตัวอ้างจากรากเว็บเสมอ -->
 <base href="/">
